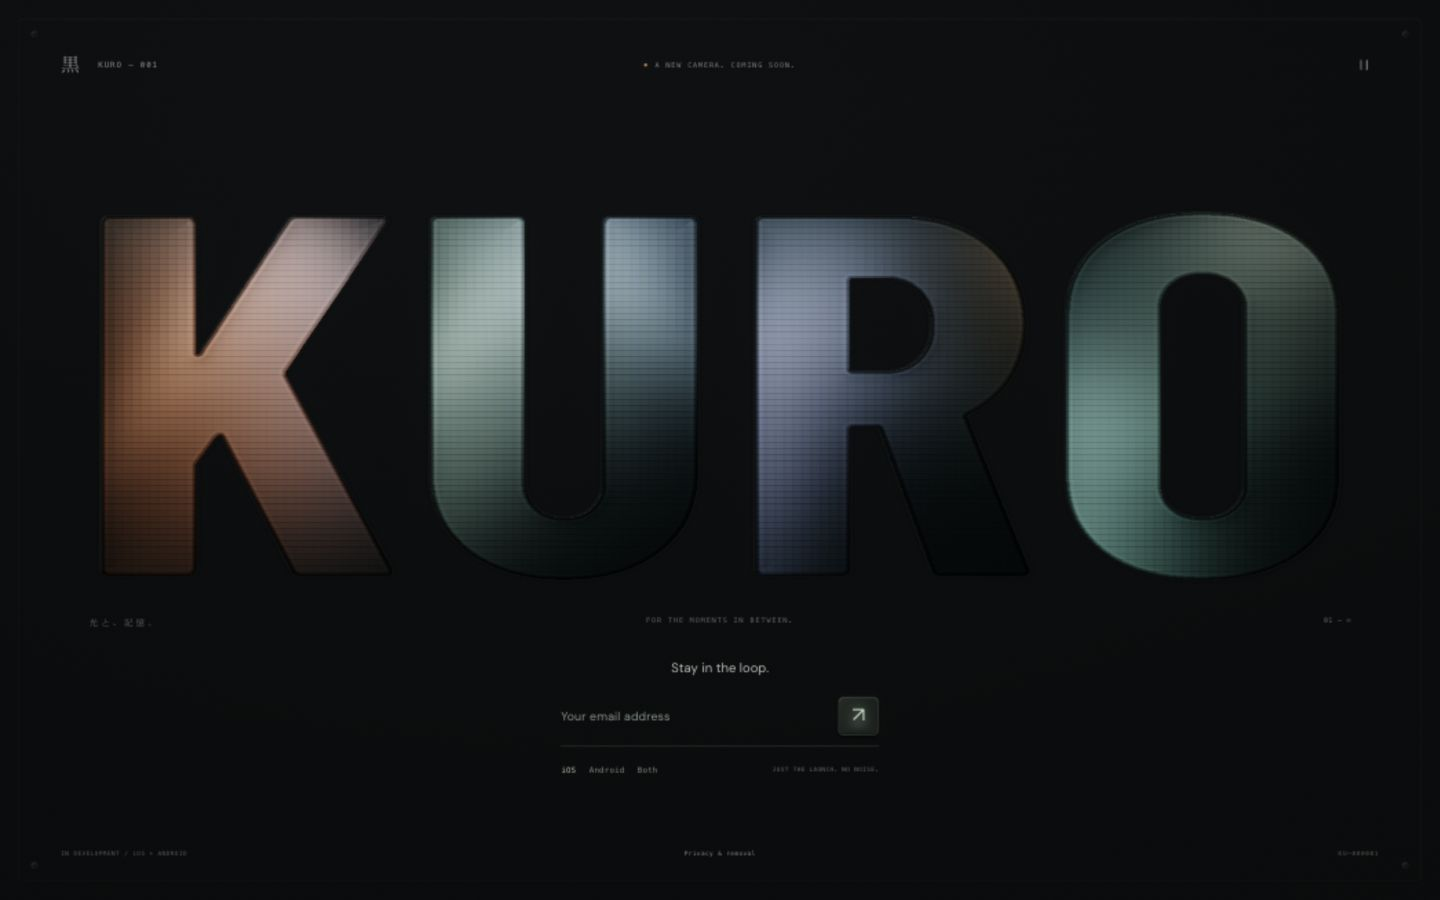
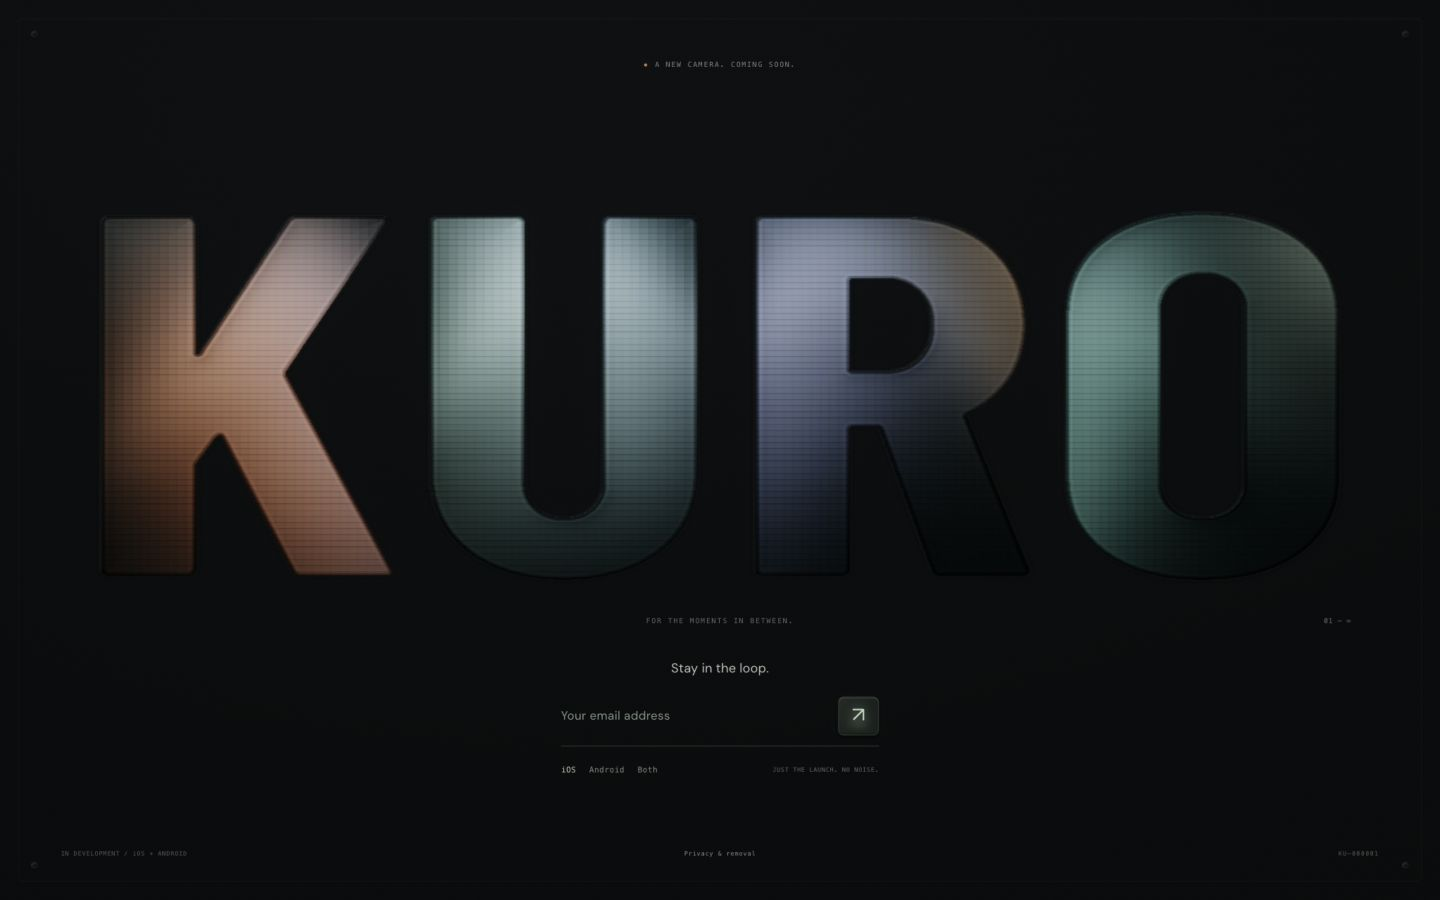
Update KURO marketing website

diff --git a/style.css b/style.css
@@ -3,14 +3,14 @@
 :root{color-scheme:dark;--paper:#d9dbd8;--quiet:#737a7b;--mono:'SFMono-Regular',Consolas,'Liberation Mono',monospace;--light:#bdc7bf;--orange:#bf6d47}
 *{box-sizing:border-box}body{margin:0;background:#111213;color:var(--paper);font-family:DM,Arial,sans-serif;-webkit-font-smoothing:antialiased}body:has(dialog[open]){overflow:hidden}button,input{font:inherit}button{cursor:pointer;color:inherit}button:disabled{cursor:wait;opacity:.5}button,input,a{-webkit-tap-highlight-color:transparent;touch-action:manipulation}button:focus-visible,input:focus-visible,a:focus-visible{outline:1px solid #bacabf;outline-offset:7px}::selection{background:#aabdaf;color:#111413}.sr-only,.skip-link{position:absolute;width:1px;height:1px;margin:-1px;padding:0;overflow:hidden;clip:rect(0,0,0,0);white-space:nowrap;border:0}.skip-link:focus{position:fixed;top:12px;left:12px;width:auto;height:auto;clip:auto;padding:15px;background:#d9dbd8;color:#111;z-index:20}
 .installation{position:relative;isolation:isolate;min-height:800px;height:100svh;overflow:hidden;background:radial-gradient(ellipse at 45% 22%,#24282950,transparent 60%),linear-gradient(135deg,#151718,#111213 70%)}#material{position:absolute;inset:0;width:100%;height:100%;z-index:-1;opacity:0;transition:opacity 1.5s}#material.ready{opacity:1}.matte-border{position:absolute;inset:18px;border:1px solid #e4f0ee07;box-shadow:inset 0 1px #ffffff03,0 1px #0005;border-radius:5px;pointer-events:none}.fastener{position:absolute;display:block;width:7px;height:7px;border-radius:50%;background:linear-gradient(135deg,#292d2f,#121415 65%);box-shadow:0 -.5px 1px #83908c25,0 1px 2px #000b;z-index:2;pointer-events:none}.fastener:after{content:'';position:absolute;left:2px;right:2px;top:3px;height:1px;background:#080b0b;transform:rotate(-30deg)}.top-left{left:31px;top:31px}.top-right{right:31px;top:31px}.bottom-left{left:31px;bottom:31px}.bottom-right{right:31px;bottom:31px}
-.masthead{position:absolute;top:49px;left:61px;right:61px;display:flex;align-items:center;justify-content:space-between;gap:22px;font:8px/1.4 var(--mono);letter-spacing:.15em;color:#89918f}.edition{display:flex;align-items:center;gap:17px}.edition>span:first-child{font:19px serif;color:#929993;line-height:1}.coming-soon{display:flex;align-items:center;gap:8px;font-size:7px;position:absolute;left:50%;transform:translateX(-50%);white-space:nowrap;color:#7b8482}.coming-soon i{height:3px;width:3px;background:#cb8052;border-radius:50%;box-shadow:0 0 7px #cb805240}.motion-button{background:none;border:0;padding:9px;color:#6c7673;display:flex;align-items:center;justify-content:center;border-radius:50%;transition:color .2s}.motion-button:hover{color:#d0dcd5}
-.word-area{position:absolute;left:6.1%;right:6.1%;top:22.5%;height:43%;max-height:540px}.word-window{display:block;position:relative;appearance:none;padding:0;margin:0;width:100%;height:100%;border:0;background:none;user-select:none;-webkit-user-select:none;outline-offset:18px}.word-window h1{margin:0;width:100%;height:100%;font:700 clamp(130px,30vw,600px)/.84 Barlow,Impact,'Arial Narrow',sans-serif;letter-spacing:-.012em;display:flex;justify-content:center;align-items:center;color:transparent;background:radial-gradient(ellipse at 8% 70%,#8b4634,transparent 45%),radial-gradient(ellipse at 55% 0,#a1b1b6,transparent 55%),radial-gradient(ellipse at 90% 80%,#5b746d,transparent 60%),#283331;background-clip:text;-webkit-background-clip:text;text-shadow:0 2px 2px #0005}.gpu-ready .word-window h1{opacity:0}.under-word{position:absolute;top:calc(100% + 26px);left:1px;right:1px;display:flex;justify-content:space-between;gap:20px;color:#5f6968;font:7px/1.5 var(--mono);letter-spacing:.18em;pointer-events:none}.under-word>span:first-child{font-family:serif;letter-spacing:.3em;font-size:9px}.under-word>span:nth-child(2){position:absolute;left:50%;transform:translateX(-50%);white-space:nowrap}.under-word>span:last-child{margin-left:auto;font-size:7px;letter-spacing:.05em}
+.masthead{min-height:32px;position:absolute;top:49px;left:61px;right:61px;display:flex;align-items:center;justify-content:space-between;gap:22px;font:8px/1.4 var(--mono);letter-spacing:.15em;color:#89918f}.coming-soon{display:flex;align-items:center;gap:8px;font-size:7px;position:absolute;left:50%;transform:translateX(-50%);white-space:nowrap;color:#7b8482}.coming-soon i{height:3px;width:3px;background:#cb8052;border-radius:50%;box-shadow:0 0 7px #cb805240}
+.word-area{position:absolute;left:6.1%;right:6.1%;top:22.5%;height:43%;max-height:540px}.word-window{display:block;position:relative;appearance:none;padding:0;margin:0;width:100%;height:100%;border:0;background:none;user-select:none;-webkit-user-select:none;outline-offset:18px}.word-window h1{margin:0;width:100%;height:100%;font:700 clamp(130px,30vw,600px)/.84 Barlow,Impact,'Arial Narrow',sans-serif;letter-spacing:-.012em;display:flex;justify-content:center;align-items:center;color:transparent;background:radial-gradient(ellipse at 8% 70%,#8b4634,transparent 45%),radial-gradient(ellipse at 55% 0,#a1b1b6,transparent 55%),radial-gradient(ellipse at 90% 80%,#5b746d,transparent 60%),#283331;background-clip:text;-webkit-background-clip:text;text-shadow:0 2px 2px #0005}.gpu-ready .word-window h1{opacity:0}.under-word{position:absolute;top:calc(100% + 26px);left:1px;right:1px;display:flex;justify-content:space-between;gap:20px;color:#5f6968;font:7px/1.5 var(--mono);letter-spacing:.18em;pointer-events:none}.under-word>.word-tagline{position:absolute;left:50%;transform:translateX(-50%);white-space:nowrap}.under-word>.word-index{margin-left:auto;font-size:7px;letter-spacing:.05em}
 .signup{position:absolute;width:318px;left:50%;transform:translateX(-50%);bottom:13.5%;text-align:center}.signup h2{font-size:13px;font-weight:400;letter-spacing:.005em;color:#bac1bb;margin:0 0 20px}.email-row{display:flex;align-items:center;gap:15px;padding:0 0 10px;border-bottom:1px solid #58645d63}.email-row input{background:none;border:0;border-radius:0;color:#c6d3ca;min-width:0;flex:1;padding:10px 0;outline-offset:3px;font-size:12px;font-weight:400;letter-spacing:.02em}.email-row input::placeholder{color:#87948b;opacity:1}.join-button{height:39px;width:41px;flex-shrink:0;background:linear-gradient(130deg,#414b417d,#202923b3 60%);box-shadow:inset 0 .7px #e1ebde30,inset 0 -.8px #0008,0 2px 5px #0009,0 0 12px #b8dbc405;border:1px solid #b2c6b61a;border-radius:6px;position:relative;transition:box-shadow .3s,background .3s,transform .15s}.join-button:before{content:'';position:absolute;inset:6px;background:radial-gradient(ellipse at 50% 90%,#b9d0b62c,transparent 75%);border-radius:3px;filter:blur(3px)}.join-button span{position:relative;font-size:21px;font-weight:400;color:#c1d6bf;text-shadow:0 0 10px #b0d7a94f;line-height:1}.join-button:hover{background:linear-gradient(140deg,#617a5966,#303f31aa);box-shadow:inset 0 .7px #e1ebde50,0 0 15px #9eb69717,0 2px 5px #0009}.join-button:active{transform:translateY(2px)}.form-bottom{display:flex;align-items:center;justify-content:space-between;gap:10px;margin-top:15px}fieldset{margin:0;border:0;padding:0;display:flex;gap:13px}fieldset label{position:relative;cursor:pointer}fieldset input{position:absolute;inset:0;opacity:0;width:100%;height:100%;margin:0;cursor:pointer}fieldset span{display:block;color:#7d8981;font:8px/1.4 var(--mono);letter-spacing:.03em;padding:3px 0;transition:color .2s}fieldset input:checked+span{color:#b7c8ba}fieldset input:focus-visible+span{outline:1px solid #b7c8ba;outline-offset:4px}.launch-note{font:6px var(--mono);letter-spacing:.08em;color:#5d6961;white-space:nowrap}#form-status{position:absolute;width:100%;top:100%;margin:13px 0 0;font-size:10px;line-height:1.6;color:#b2c5b5}#form-status[data-error=true],#removal-status[data-error=true]{color:#df9b7d}.honey{position:absolute;left:-9999px;opacity:0;width:1px;height:1px;overflow:hidden}.footer{position:absolute;left:61px;right:61px;bottom:42px;display:flex;justify-content:space-between;align-items:center;color:#505b57;font:6px/1.5 var(--mono);letter-spacing:.1em;gap:18px}.footer button{font:inherit;letter-spacing:inherit;color:#879388;position:absolute;left:50%;transform:translateX(-50%);background:none;border:0;padding:6px;text-underline-offset:4px}.footer button:hover{color:#a4b5a8}.serial{letter-spacing:.15em}.footer:before,.footer:after{display:none}
  dialog{width:min(480px,calc(100% - 32px));max-height:85svh;overflow-y:auto;padding:34px;border:1px solid #414a43;border-radius:8px;background:#191e1b;color:#c7d0c9;box-shadow:0 30px 80px #0008}dialog::backdrop{background:#080b09d9;backdrop-filter:blur(12px)}.dialog-close{position:absolute;right:13px;top:9px;background:none;border:0;font-size:26px;color:#a3b0a5;padding:4px 8px}.dialog-eyebrow{font:8px var(--mono);letter-spacing:.1em;color:#829084}dialog h2{font:400 22px/1.2 DM,Arial,sans-serif;margin:24px 0 20px}dialog p{font-size:11px;line-height:1.9;color:#95a298;margin:17px 0}#removal-form{margin-top:24px}dialog label{display:block;font-size:11px;color:#acbcae}dialog input{display:block;width:100%;padding:12px;background:transparent;border:1px solid #4b5e4e;border-radius:3px;margin-top:10px;color:#d9e5da}.remove-button{display:flex;justify-content:space-between;width:100%;margin-top:12px;padding:12px 14px;border:1px solid #72897533;border-radius:3px;background:#35493666;color:#c4d7c4;font-size:11px}.remove-button>span{font-size:17px}#removal-status{font-size:11px;min-height:18px;line-height:1.6}
 @media(min-width:1800px){.word-area{left:8%;right:8%;top:23%;height:42%}.signup{bottom:14.5%}}
 @media(max-height:800px) and (min-width:761px){.installation{min-height:650px}.word-area{top:23%;height:39%}.signup{bottom:13%}.masthead{top:40px}.footer{bottom:35px}.under-word{top:calc(100% + 18px)}}
-@media(max-width:760px){.installation{min-height:700px}.matte-border{inset:11px}.fastener{width:5px;height:5px}.fastener:after{left:1px;right:1px;top:2px}.top-left{left:21px;top:21px}.top-right{right:21px;top:21px}.bottom-left{left:21px;bottom:21px}.bottom-right{right:21px;bottom:21px}.masthead{top:41px;left:31px;right:26px;gap:14px}.edition{gap:10px;font-size:6px}.edition>span:first-child{font-size:16px}.coming-soon{font-size:5px;left:auto;right:41px;transform:none;letter-spacing:.08em;gap:6px}.coming-soon i{width:2px;height:2px}.motion-button{padding:8px}.motion-button svg{width:9px;height:11px}.word-area{left:6%;right:6%;top:30%;height:26%;max-height:280px}.word-window h1{font-size:31.5vw}.under-word{top:calc(100% + 22px);font-size:5px;letter-spacing:.08em}.under-word>span:first-child{font-size:7px}.under-word>span:last-child{font-size:5px}.under-word>span:nth-child(2){font-size:5px;letter-spacing:.08em}.signup{width:min(290px,calc(100% - 74px));bottom:16.5%}.signup h2{font-size:12px;margin-bottom:18px}.email-row{gap:12px}.email-row input{font-size:16px}.form-bottom{margin-top:14px}fieldset{gap:12px}.launch-note{font-size:5px}.footer{left:31px;right:31px;bottom:40px;font-size:5px;gap:15px}.footer button{font-size:6px;position:static;transform:none}.footer .serial{display:none}dialog{padding:30px 24px}}
-@media(max-width:360px){.coming-soon{font-size:4px;right:35px}.edition{gap:7px}.masthead{left:26px;right:21px}.under-word>span:first-child{display:none}.signup{width:calc(100% - 64px)}.launch-note{font-size:4px}.footer{left:27px;right:27px;font-size:4px}.footer button{font-size:5px}}
+@media(max-width:760px){.installation{min-height:700px}.matte-border{inset:11px}.fastener{width:5px;height:5px}.fastener:after{left:1px;right:1px;top:2px}.top-left{left:21px;top:21px}.top-right{right:21px;top:21px}.bottom-left{left:21px;bottom:21px}.bottom-right{right:21px;bottom:21px}.masthead{min-height:27px;top:41px;left:31px;right:26px;gap:14px}.coming-soon{font-size:5px;left:auto;right:41px;transform:none;letter-spacing:.08em;gap:6px}.coming-soon i{width:2px;height:2px}.word-area{left:6%;right:6%;top:30%;height:26%;max-height:280px}.word-window h1{font-size:31.5vw}.under-word{top:calc(100% + 22px);font-size:5px;letter-spacing:.08em}.under-word>.word-index{font-size:5px}.under-word>.word-tagline{font-size:5px;letter-spacing:.08em}.signup{width:min(290px,calc(100% - 74px));bottom:16.5%}.signup h2{font-size:12px;margin-bottom:18px}.email-row{gap:12px}.email-row input{font-size:16px}.form-bottom{margin-top:14px}fieldset{gap:12px}.launch-note{font-size:5px}.footer{left:31px;right:31px;bottom:40px;font-size:5px;gap:15px}.footer button{font-size:6px;position:static;transform:none}.footer .serial{display:none}dialog{padding:30px 24px}}
+@media(max-width:360px){.coming-soon{font-size:4px;right:35px}.masthead{left:26px;right:21px}.signup{width:calc(100% - 64px)}.launch-note{font-size:4px}.footer{left:27px;right:27px;font-size:4px}.footer button{font-size:5px}}
 @media(prefers-reduced-motion:reduce){*,*:before,*:after{transition:none!important}}
 
 .no-script{font-size:10px;color:#b2c5b5;margin-top:13px}

diff --git a/app.js b/app.js
@@ -1,21 +1,13 @@
 const canvas = document.querySelector('#material');
 const word = document.querySelector('#word-window');
 const scene = document.querySelector('#installation');
-const motionButton = document.querySelector('#motion');
 const reducedMotion = matchMedia('(prefers-reduced-motion: reduce)');
 let paused = reducedMotion.matches;
 let renderer = null;
 let isHeld = false;
 let pulse = 0;
 
-function syncMotion() {
-  motionButton.setAttribute('aria-pressed', String(paused));
-  motionButton.setAttribute('aria-label', paused ? 'Play animation' : 'Pause animation');
-  motionButton.title = paused ? 'Play animation' : 'Pause animation';
-  document.querySelector('#motion-icon').setAttribute('d', paused ? 'M3 2l7 5-7 5V2Z' : 'M3 2v10M9 2v10');
-}
-motionButton.addEventListener('click', () => { paused = !paused; syncMotion(); renderer?.wake(); });
-reducedMotion.addEventListener('change', () => { if (reducedMotion.matches) { paused = true; syncMotion(); renderer?.wake(); } });
+reducedMotion.addEventListener('change', () => { paused = reducedMotion.matches; renderer?.wake(); });
 word.addEventListener('pointerdown', event => { if (event.button !== 0) return; isHeld = true; word.setPointerCapture(event.pointerId); renderer?.wake(); });
 for (const event of ['pointerup', 'pointercancel', 'lostpointercapture']) {
   word.addEventListener(event, () => { isHeld = false; renderer?.wake(); });
@@ -24,7 +16,6 @@ word.addEventListener('keydown', event => { if (event.key === ' ' || event.key =
 word.addEventListener('keyup', event => { if (event.key === ' ' || event.key === 'Enter') { isHeld = false; pulse = 1; renderer?.wake(); } });
 word.addEventListener('blur', () => { isHeld = false; renderer?.wake(); });
 word.addEventListener('click', () => { pulse = 1; renderer?.wake(); });
-syncMotion();
 
 // Signed-distance lettering lets the fragment shader shade the cut edge, the
 // recessed pocket, the acrylic bevel, and the LCD as separate material layers.

diff --git a/index.html b/index.html
@@ -25,14 +25,12 @@
     <i class="fastener top-left" aria-hidden="true"></i><i class="fastener top-right" aria-hidden="true"></i>
     <i class="fastener bottom-left" aria-hidden="true"></i><i class="fastener bottom-right" aria-hidden="true"></i>
     <header class="masthead">
-      <span class="edition"><span lang="ja">黒</span><span>KURO — 001</span></span>
       <span class="coming-soon"><i></i> A NEW CAMERA. COMING SOON.</span>
-      <button id="motion" class="motion-button" type="button" aria-label="Pause animation" aria-pressed="false" title="Pause animation"><svg width="12" height="14" viewBox="0 0 12 14" fill="none" aria-hidden="true"><path id="motion-icon" d="M3 2v10M9 2v10" stroke="currentColor" stroke-width="1.5"/></svg></button>
     </header>
 
     <div class="word-area">
       <button id="word-window" class="word-window" type="button" aria-label="Illuminate KURO" title="Hold to bring it into focus"><h1>KURO</h1></button>
-      <div class="under-word" aria-hidden="true"><span>光と、記憶。</span><span>FOR THE MOMENTS IN BETWEEN.</span><span>01 — ∞</span></div>
+      <div class="under-word" aria-hidden="true"><span class="word-tagline">FOR THE MOMENTS IN BETWEEN.</span><span class="word-index">01 — ∞</span></div>
     </div>
 
     <section class="signup" aria-labelledby="signup-title">

diff --git a/README.md b/README.md
@@ -19,8 +19,8 @@ those materials rather than a direct port of the Metal pipeline.
 
 Move the pointer to shift the lighting and parallax. Hold the wordmark (or
 hold Space/Enter while focused) to bring the LCDs closer to the acrylic. The
-small top-right control pauses/resumes motion. Reduced-motion preferences
-start the scene paused. Rendering stops while the page is hidden, caps at 30
+scene follows reduced-motion preferences, pausing its ambient motion when
+requested. Rendering stops while the page is hidden, caps at 30
 fps and 1800 pixels on the longest edge, and uses at most 1.5x device resolution.
 A static CSS wordmark remains available without WebGL. No camera permission,
 video, photo asset, analytics, or third-party runtime dependencies are used.
